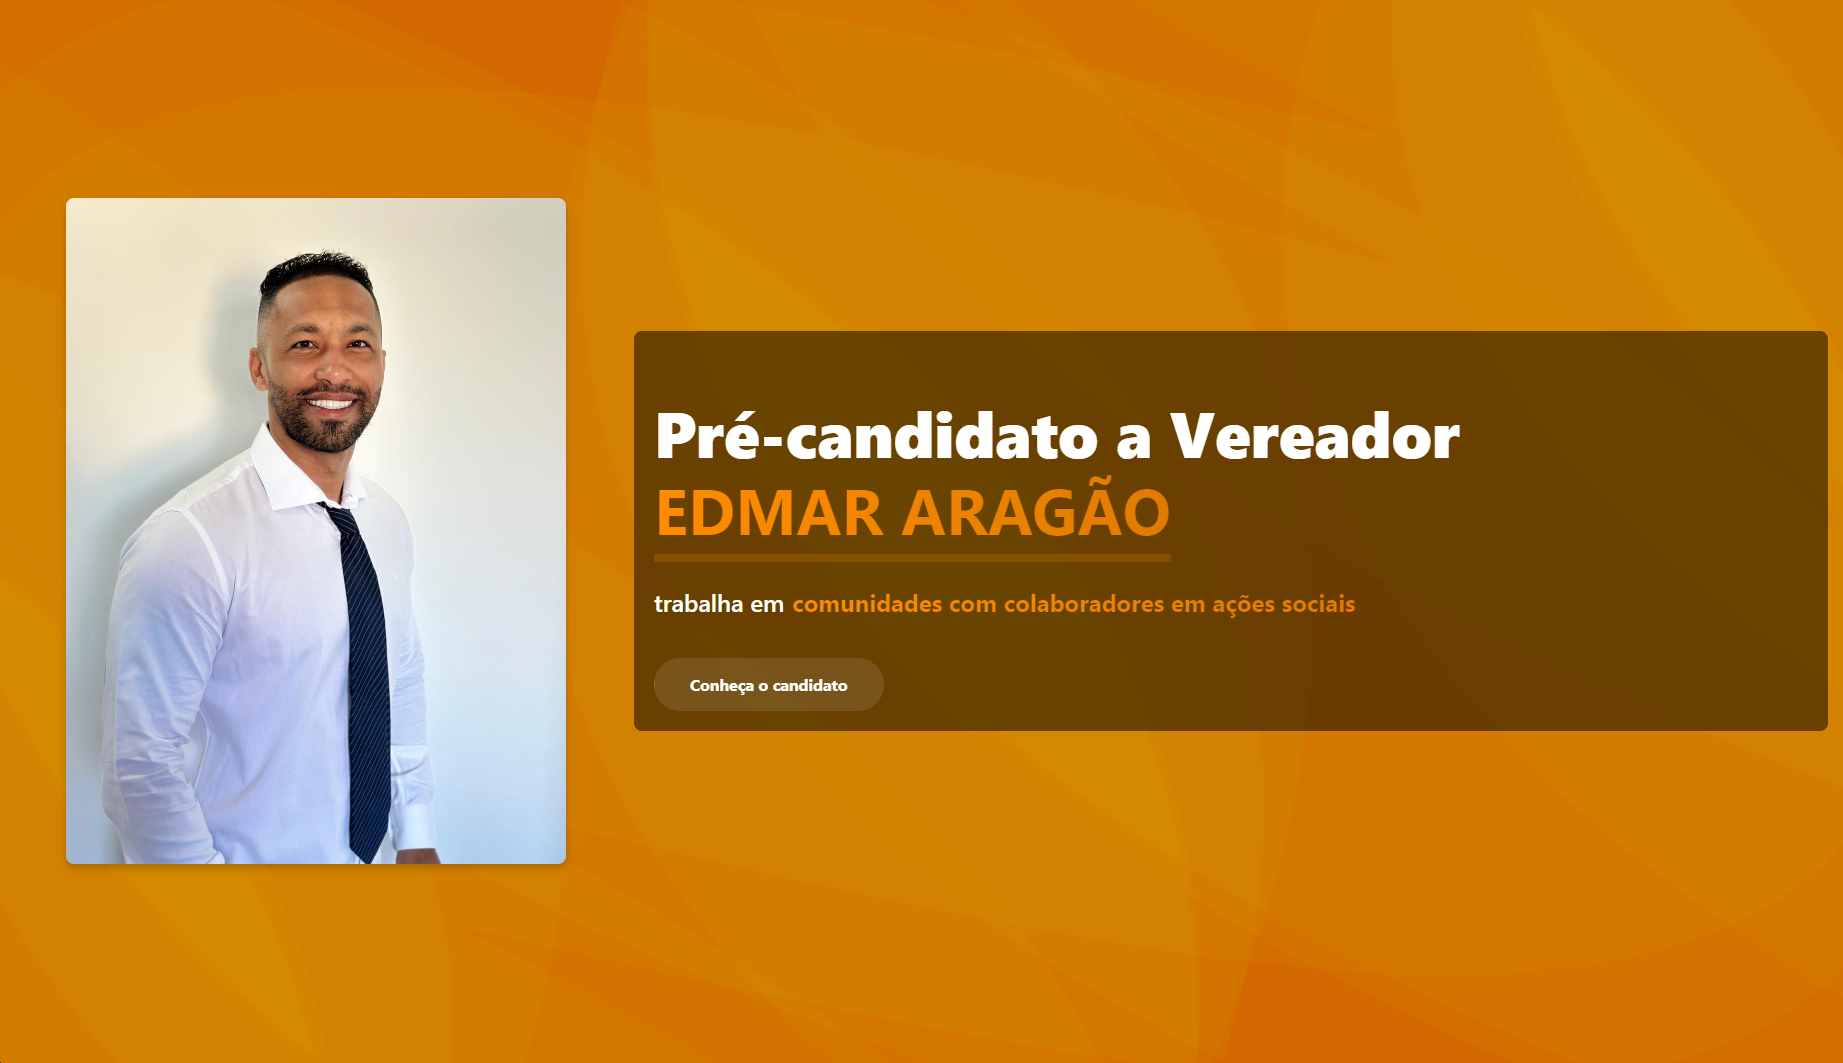
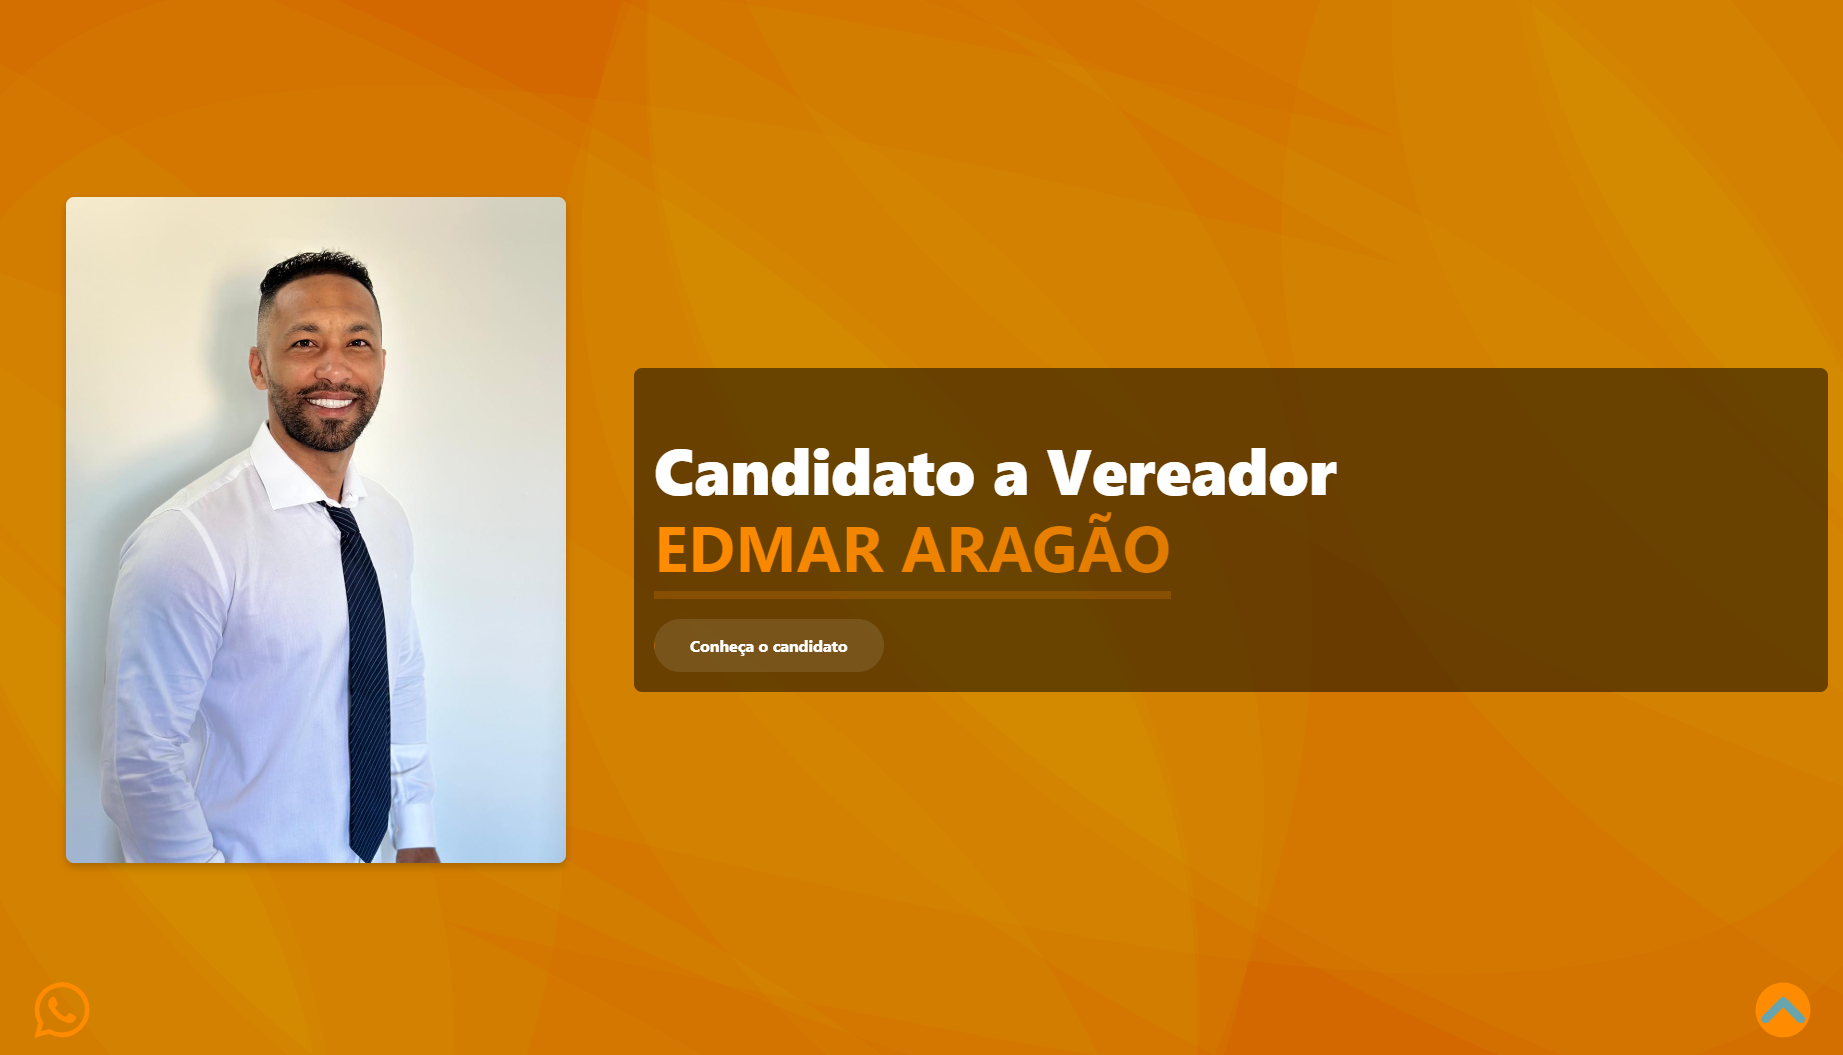
update project Edmar

diff --git a/src/js/MeusProjetos.js b/src/js/MeusProjetos.js
@@ -22,7 +22,7 @@ const projetos = [
     },
     {
         titulo: 'Edmar Aragão',
-        descricao: 'Site para apresentação de pré-candidato a Vereador',
+        descricao: 'Site para apresentação de candidato a Vereador',
         imagem: edmararagao,
         ordem: 'direita',
         tipo: 'prod'
